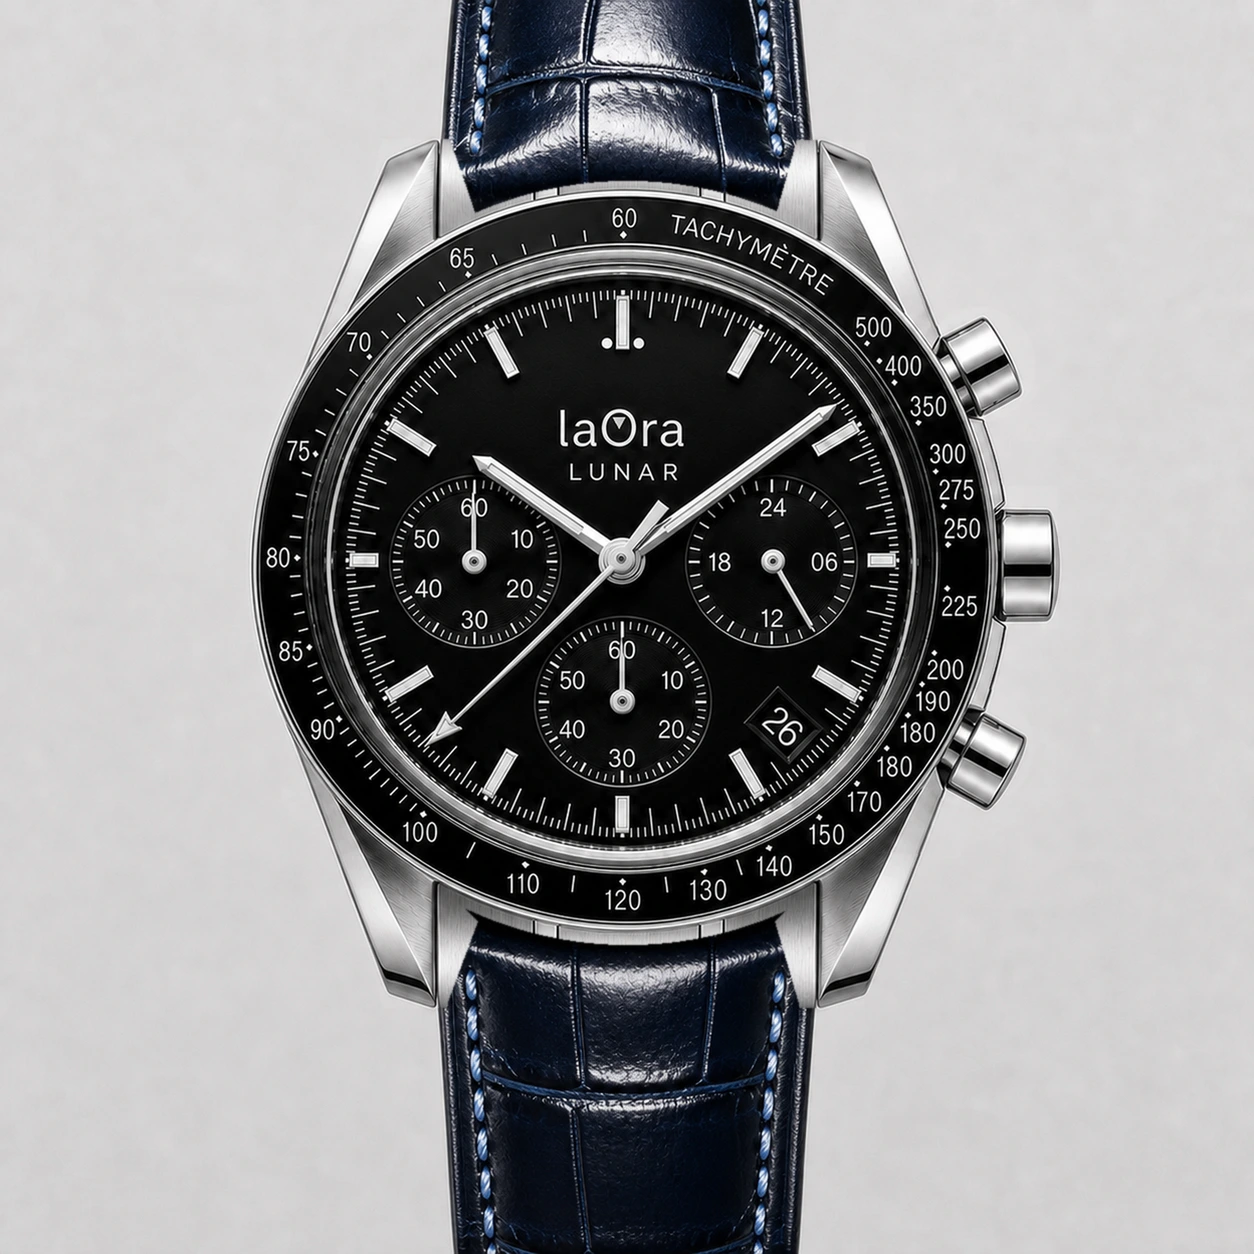
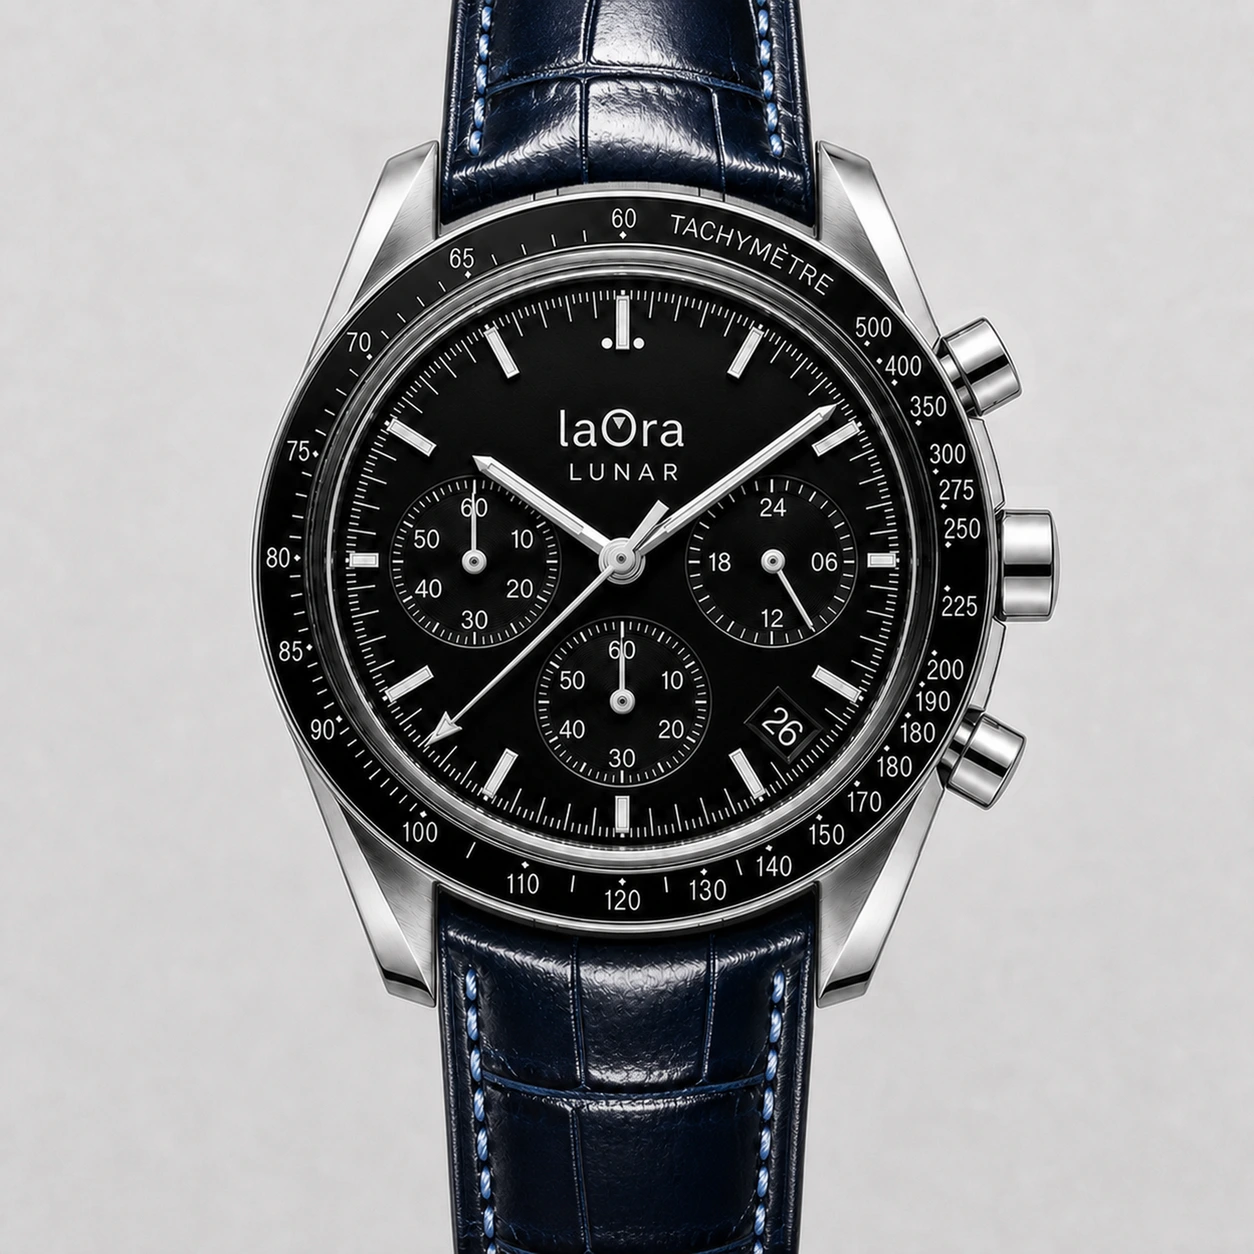
Lunar: piel italiana azul integrada, solo con el bisel azul
Madre nueva y restricción de Óscar: la azul se ofrece únicamente con el
bisel azul. Con el bisel negro y con la caja negra queda tachada. Al
acotarla así sobra la exclusión que llevaba contra la esfera verde, que
es de bisel negro: se retira.

Estrena también su pespunte al tono, el hilo azul claro teñido de azul
marino desde la misma madre.

Changed region(s): [[0.3421, 0.6842, 0.6531, 0.8086], [0.3421, 0.0933, 0.6842, 0.2177]]

diff --git a/lunar.html b/lunar.html
@@ -293,7 +293,9 @@
     'piel-italiana-marron-pespunte-tono': { coste: 29.99, cierre: 'Hebilla de pinza', italiana: true,
       tec: 'piel de vaca genuina marrón con relieve de cocodrilo y liberación rápida' },
     'piel-italiana-azul':   { coste: 29.99, cierre: 'Hebilla de pinza', italiana: true,
-      tec: 'piel de vaca genuina azul con relieve de cocodrilo y liberación rápida' },
+      tec: 'piel de vaca genuina azul marino con relieve de cocodrilo y liberación rápida' },
+    'piel-italiana-azul-pespunte-tono': { coste: 29.99, cierre: 'Hebilla de pinza', italiana: true,
+      tec: 'piel de vaca genuina azul marino con relieve de cocodrilo y liberación rápida' },
     /* Caucho (P-019). Lo que cambia entre variantes es la COSTURA, así
        que ahí es donde va la paleta del tipo. */
     'goma-negra-costura-verde':   { coste: 5.59, cierre: 'Hebilla de pinza',
@@ -329,9 +331,11 @@
         'contraste': { nombre: 'Contraste', tec: 'pespunte blanco de contraste', correa: 'piel-italiana-marron' },
         'color':     { nombre: 'A color',   tec: 'pespunte marrón al tono de la piel',
                        correa: 'piel-italiana-marron-pespunte-tono' } } },
+      /* La azul, SOLO con bisel azul (Óscar, 18/08). */
       'azul':   { nombre: 'Azul',   color: '#1E2B47', pespuntes: {
-        'contraste': { nombre: 'Contraste', tec: 'pespunte blanco de contraste' },
-        'color':     { nombre: 'A color',   tec: 'pespunte al tono de la piel', correa: 'piel-italiana-azul' } } } } },
+        'contraste': { nombre: 'Contraste', tec: 'pespunte azul claro de contraste', correa: 'piel-italiana-azul' },
+        'color':     { nombre: 'A color',   tec: 'pespunte azul marino al tono de la piel',
+                       correa: 'piel-italiana-azul-pespunte-tono' } } } } },
 
     /* El proveedor hace el brazalete en acero y en negro PVD (P-012).
        El negro todavía no tiene foto. */
@@ -654,7 +658,7 @@
   });
 
   /* El manifiesto manda: de él salen las rutas de todas las capas. */
-  fetch('/assets/img/lunar-config/manifest.json?v=21')
+  fetch('/assets/img/lunar-config/manifest.json?v=22')
     .then(function (r) { return r.json(); })
     .then(function (m) { M = m; normaliza(); pinta(); });
 })();
